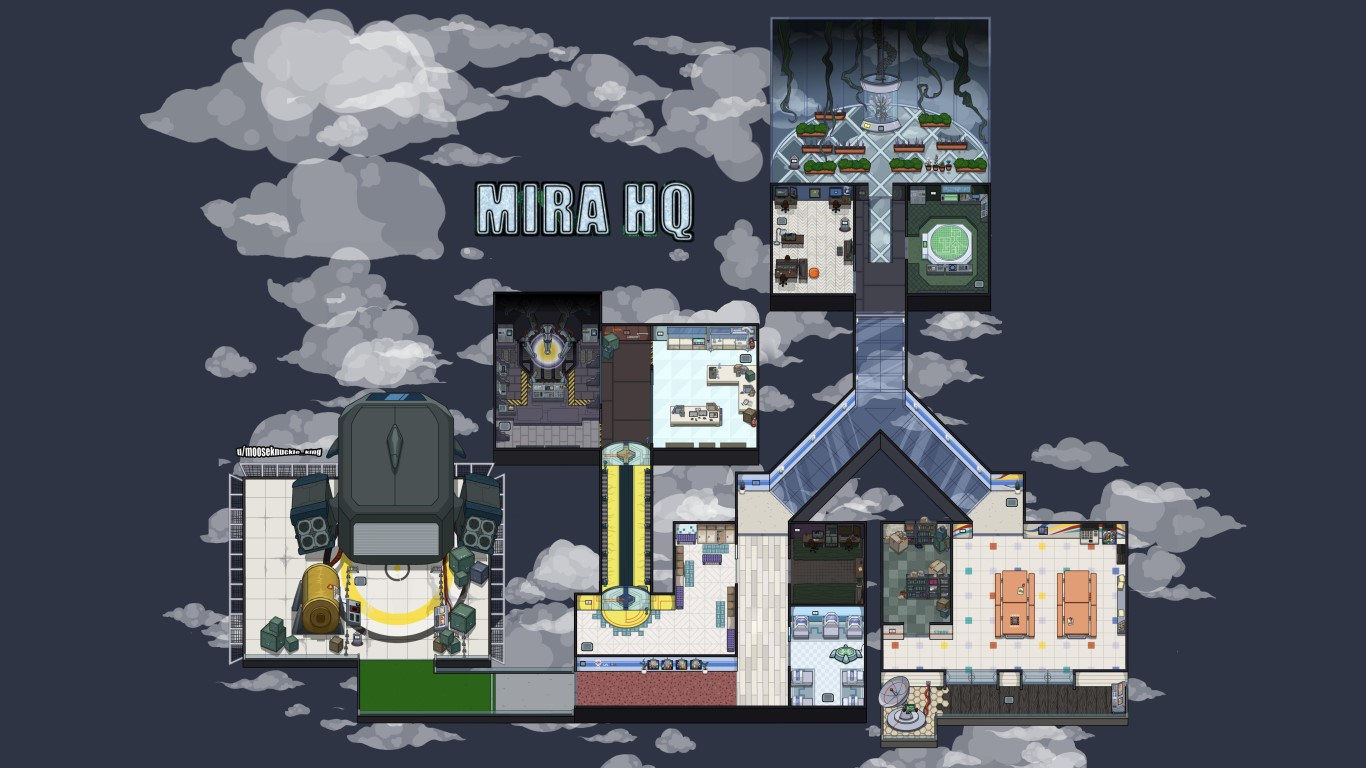
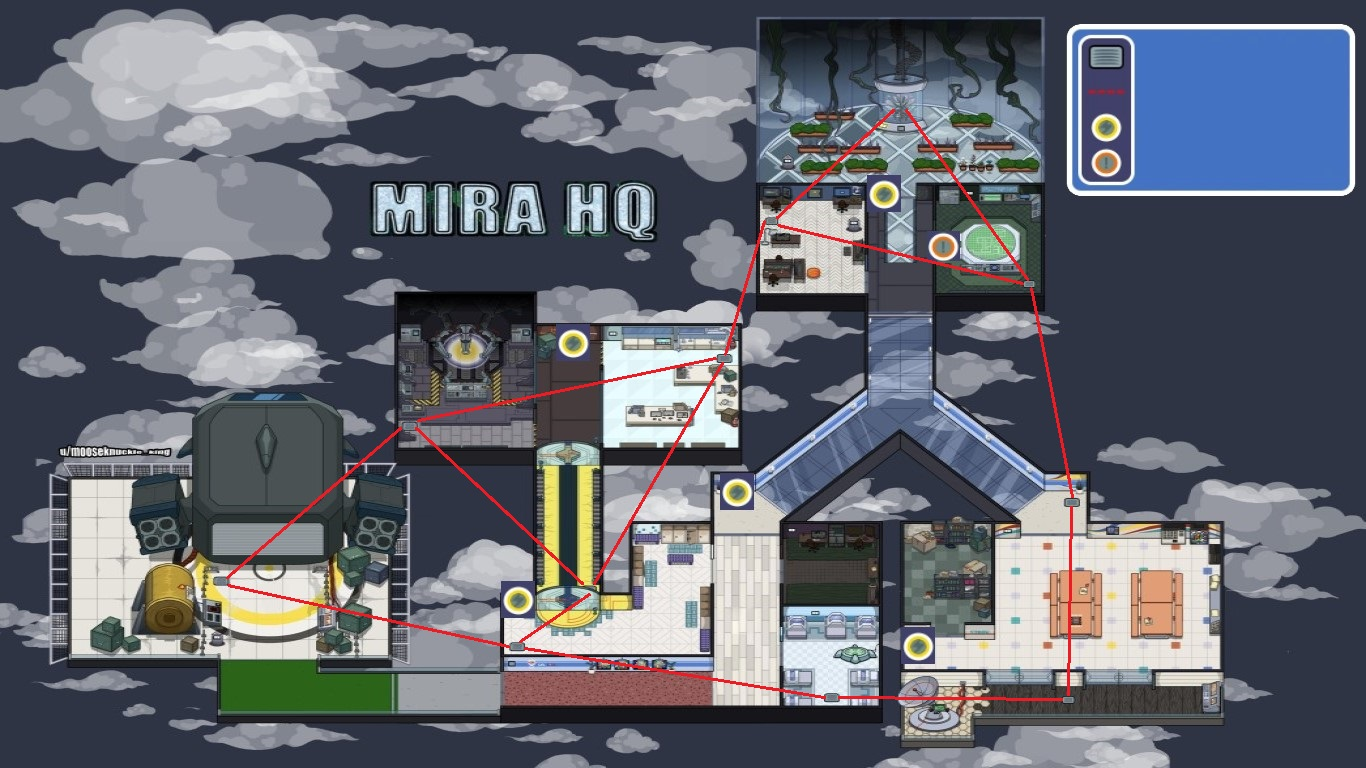
Added Mira HQ map with details and text.

diff --git a/src/components/MapsPanel/MiraHqWithDetails.tsx b/src/components/MapsPanel/MiraHqWithDetails.tsx
@@ -1,0 +1,241 @@
+import React from "react";
+import { useTranslation } from "react-i18next";
+
+export default function MiraHq(
+  props: React.SVGProps<SVGSVGElement>
+): JSX.Element {
+  const { t } = useTranslation();
+
+  return (
+    <svg viewBox="0 0 1366 768" {...props}>
+      <title>{"MiraHq"}</title>
+      <image
+        fill="#b3cde0"
+        href="assets/Mirahq-detailed.jpg"
+        preserveAspectRatio="xMidYMid meet"
+      />
+      <text
+        fontWeight="bold"
+        fontFamily="Titillium Web, sans-serif"
+        fontSize={20}
+        y={155}
+        x={842.5}
+        stroke="#000"
+        strokeWidth="1.2"
+        fill="#EEC200"
+        preserveAspectRatio="xMidYMid meet"
+      >
+        {t("maps.greenhouse")}
+      </text>
+      <text
+        fontWeight="bold"
+        fontFamily="Titillium Web, sans-serif"
+        fontSize={20}
+        y={254}
+        x={949.5}
+        stroke="#000"
+        fill="#EEC200"
+        preserveAspectRatio="xMidYMid meet"
+      >
+        {t("maps.admin")}
+      </text>
+      <text
+        fontWeight="bold"
+        fontFamily="Titillium Web, sans-serif"
+        fontSize={20}
+        y={232}
+        x={794.5}
+        stroke="#000"
+        fill="#EEC200"
+        preserveAspectRatio="xMidYMid meet"
+      >
+        {t("maps.office")}
+      </text>
+      <text
+        transform="rotate(45.439 727.06 812.293) scale(.78224 1)"
+        fontWeight="bold"
+        fontFamily="Titillium Web, sans-serif"
+        fontSize={20}
+        y={551.511}
+        x={705.185}
+        strokeOpacity="null"
+        stroke="#000"
+        fill="#FFEA8A"
+        preserveAspectRatio="xMidYMid meet"
+      >
+        {t("maps.communications")}
+      </text>
+      <text
+        transform="rotate(67.008 640.961 672.111) scale(.83183 1)"
+        fontWeight="bold"
+        fontFamily="Titillium Web, sans-serif"
+        fontSize={20}
+        y={625.612}
+        x={643.578}
+        fillOpacity="null"
+        strokeOpacity="null"
+        stroke="#000"
+        fill="#EEC200"
+        preserveAspectRatio="xMidYMid meet"
+      >
+        {t("maps.lockerRoom")}
+      </text>
+      <text
+        fontWeight="bold"
+        fontFamily="Titillium Web, sans-serif"
+        fontSize={20}
+        y={666}
+        x={788.5}
+        strokeOpacity="null"
+        strokeWidth="1"
+        stroke="#000"
+        fill="#EEC200"
+        preserveAspectRatio="xMidYMid meet"
+      >
+        {t("maps.medBay")}
+      </text>
+      <text
+        fontWeight="bold"
+        fontFamily="Titillium Web, sans-serif"
+        fontSize={20}
+        y={560}
+        x={1054.5}
+        strokeOpacity="null"
+        strokeWidth="1"
+        stroke="#000"
+        fill="#EEC200"
+        preserveAspectRatio="xMidYMid meet"
+      >
+        {t("maps.cafeteria")}
+      </text>
+      <text
+        transform="rotate(45 938.725 548.208)"
+        fontWeight="bold"
+        fontFamily="Titillium Web, sans-serif"
+        fontSize={20}
+        y={565}
+        x={919.5}
+        strokeOpacity="null"
+        strokeWidth="1"
+        stroke="#000"
+        fill="#FFEA8A"
+        preserveAspectRatio="xMidYMid meet"
+      >
+        {t("maps.storage")}
+      </text>
+      <text
+        fontWeight="bold"
+        fontFamily="Titillium Web, sans-serif"
+        fontSize={20}
+        y={704}
+        x={1077.5}
+        strokeOpacity="null"
+        strokeWidth="null"
+        stroke="#000"
+        fill="#FFEA8A"
+        preserveAspectRatio="xMidYMid meet"
+      >
+        {t("maps.balcony")}
+      </text>
+      <text
+        fontWeight="bold"
+        fontFamily="Titillium Web, sans-serif"
+        fontSize={20}
+        y={612}
+        x={224.5}
+        strokeOpacity="null"
+        strokeWidth="null"
+        stroke="#000"
+        fill="#EEC200"
+        preserveAspectRatio="xMidYMid meet"
+      >
+        {t("maps.launchpad")}
+      </text>
+      <text
+        fontWeight="bold"
+        fontFamily="Titillium Web, sans-serif"
+        fontSize={20}
+        y={400}
+        x={428}
+        strokeOpacity="null"
+        strokeWidth="1"
+        stroke="#000"
+        fill="#FFEA8A"
+        preserveAspectRatio="xMidYMid meet"
+      >
+        {t("maps.reactor")}
+      </text>
+      <text
+        transform="rotate(45 705.725 339.208)"
+        fontWeight="bold"
+        fontFamily="Titillium Web, sans-serif"
+        fontSize={20}
+        y={420}
+        x={653.5}
+        strokeOpacity="null"
+        strokeWidth="1"
+        stroke="#000"
+        fill="#EEC200"
+        preserveAspectRatio="xMidYMid meet"
+      >
+        {t("maps.laboratory")}
+      </text>
+      <text
+        fontWeight="bold"
+        fontFamily="Titillium Web, sans-serif"
+        fontSize={20}
+        y={63}
+        x={1140}
+        strokeOpacity="null"
+        strokeWidth={0}
+        stroke="#000"
+        fill="#fff"
+        preserveAspectRatio="xMidYMid meet"
+      >
+        {t("maps.vents")}
+      </text>
+      <text
+        fontWeight="bold"
+        fontFamily="Titillium Web, sans-serif"
+        fontSize={20}
+        y={98}
+        x={1140}
+        strokeOpacity="null"
+        strokeWidth={0}
+        stroke="#000"
+        fill="#fff"
+        preserveAspectRatio="xMidYMid meet"
+      >
+        {t("maps.ventConnections")}
+      </text>
+      <text
+        fontWeight="bold"
+        fontFamily="Titillium Web, sans-serif"
+        fontSize={20}
+        y={135}
+        x={1140}
+        strokeOpacity="null"
+        strokeWidth={0}
+        stroke="#000"
+        fill="#fff"
+        preserveAspectRatio="xMidYMid meet"
+      >
+        {t("maps.wiringTasks")}
+      </text>
+      <text
+        fontWeight="bold"
+        fontFamily="Titillium Web, sans-serif"
+        fontSize={20}
+        y={172}
+        x={1140}
+        strokeOpacity="null"
+        strokeWidth={0}
+        stroke="#000"
+        fill="#fff"
+        preserveAspectRatio="xMidYMid meet"
+      >
+        {t("maps.commonTasks")}
+      </text>
+    </svg>
+  );
+}

diff --git a/src/components/MapsPanel/MapsPanel.tsx b/src/components/MapsPanel/MapsPanel.tsx
@@ -3,6 +3,7 @@ import { getIsMobile, getOrientation } from "store/slices/DeviceSlice";
 import Button from "components/common/Button";
 import Draggable from "react-draggable";
 import MiraHq from "./MiraHq";
+import MiraHqWithDetails from "./MiraHqWithDetails";
 import Polus from "./Polus";
 import React from "react";
 import TheSkeld from "./TheSkeld";
@@ -14,7 +15,7 @@ import { useTranslation } from "react-i18next";
 export default function MapsPanel(): JSX.Element {
   const { t } = useTranslation();
 
-  const [map, setMap] = React.useState("skeld");
+  const [map, setMap] = React.useState("mira");
   const [resetState, setResetState] = React.useState(false);
   const [showDetails, setShowDetails] = React.useState(true);
 
@@ -45,7 +46,7 @@ export default function MapsPanel(): JSX.Element {
   let currentMap = showDetails ? <TheSkeldWithDetails /> : <TheSkeld />;
 
   if (map === "mira") {
-    currentMap = <MiraHq />;
+    currentMap = showDetails ? <MiraHqWithDetails /> : <MiraHq />;
   } else if (map === "polus") {
     currentMap = <Polus />;
   }

diff --git a/README.md b/README.md
@@ -51,7 +51,7 @@ Kermitigated (twitch handle)
 [Victor Pietro](https://github.com/pietroow) (A.K.A. Pietroow)  
 [Coleyra](https://github.com/Coleyra)  
 [MissingNoShiny](https://github.com/MissingNoShiny)  
-u/Stark_001001 (The Skeld in game map)
+u/Stark_001001 (The Skeld in game map)  
 u/mooseknuckle_king (Mira HQ and Polus in game maps)
 
 Please if you would not like to be mentioned here or your information is wrong
